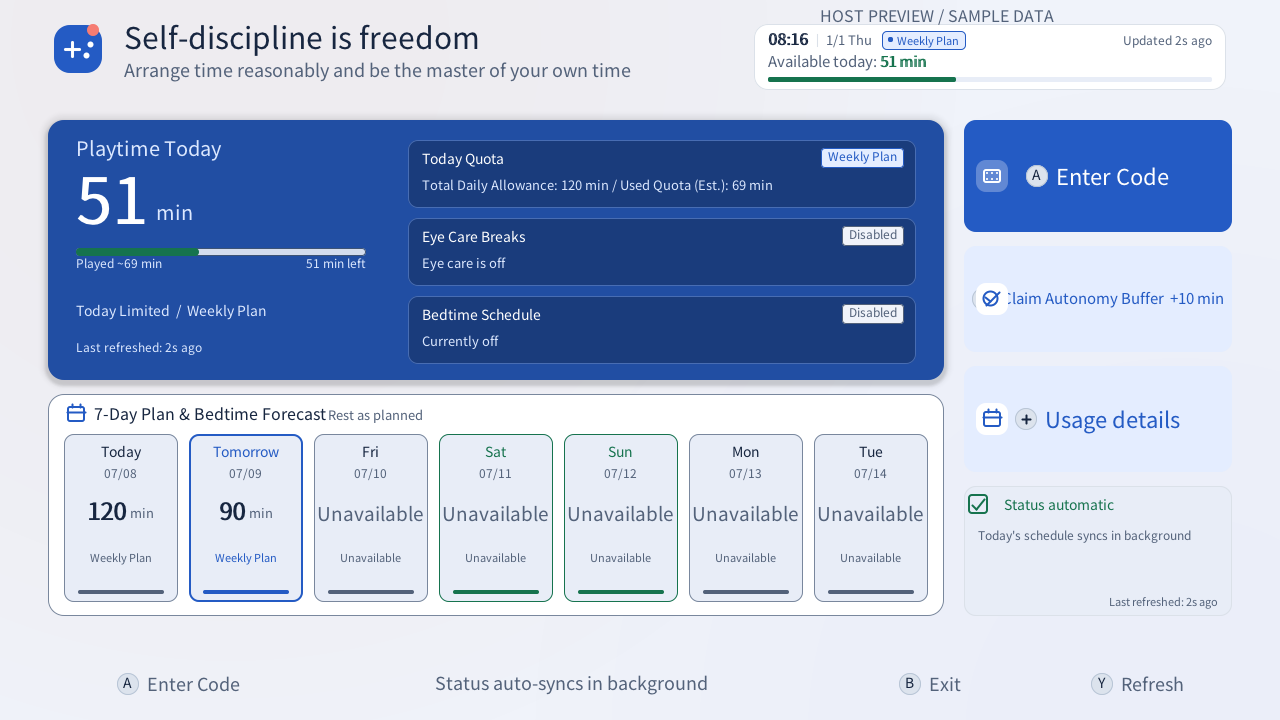
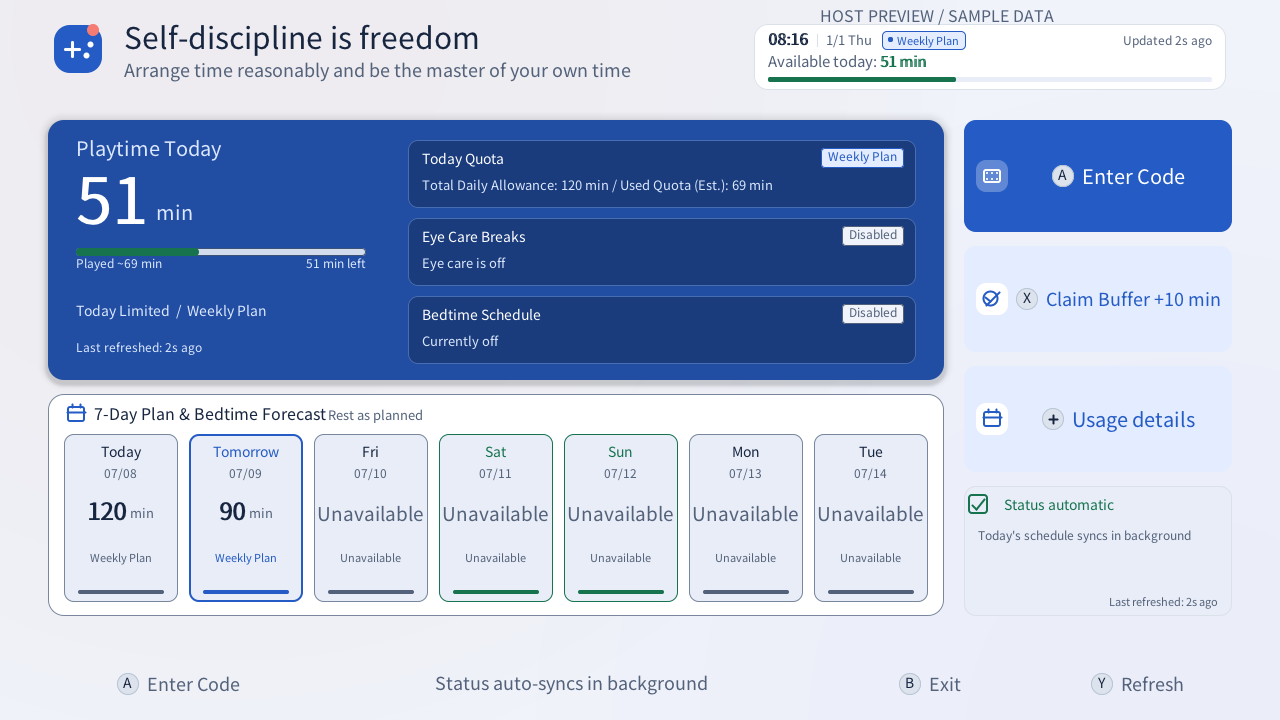
fix(ui): 修复孩子区缓冲文本溢出并优化引导向导视觉交互
- 精简孩子主页自主缓冲文案并限制操作按钮排版边界，彻底消除图标重叠与右侧溢出
- 为引导向导底栏操作与密码修改按钮补齐 Switch 圆形按键符号（A/B/X），提升视觉辨识度
- 在向导第 2 步左侧卡片补充结构化安全规则说明面板，实现双列卡片高度与信息密度平衡
- 在向导第 2 步右侧集成原生风格滑动开关控件与默认参数提示，并明确进阶设置调整路径
- 同步重绘三语向导与孩子主页文档预览图，通过 Python 回归、全量打包及 Eden 测试应用校验

Changed region(s): [[0.7812, 0.2139, 0.9375, 0.275], [0.7812, 0.55, 0.9375, 0.6111], [0.7812, 0.3972, 0.9688, 0.4278]]

diff --git a/companion/nro/ui_render_setup.c b/companion/nro/ui_render_setup.c
@@ -4,9 +4,13 @@ static void setup_button(uint32_t *pixels, uint32_t stride, PtcUiRect rect,
     const char *label, bool selected, bool primary)
 {
     UiRect r = to_uirect(rect);
-    fill_round_rect(pixels, stride, r, 10, primary ? UI_ACCENT : UI_RAISED);
-    draw_rect_outline(pixels, stride, r, 10, selected ? 2 : 1, selected ? UI_ACCENT : UI_BORDER);
-    draw_text_center(pixels, stride, r, label, 18, primary ? UI_ON_ACCENT : UI_INK);
+    uint32_t fill = primary ? UI_ACCENT : (selected ? UI_ACCENT_SOFT : UI_SURFACE);
+    uint32_t border = selected ? UI_ACCENT : (primary ? UI_ACCENT : UI_BORDER);
+    uint32_t text_color = primary ? UI_ON_ACCENT : (selected ? UI_ACCENT : UI_INK);
+    fill_round_rect(pixels, stride, r, 10, fill);
+    draw_rect_outline(pixels, stride, r, 10, selected ? 2 : 1, border);
+    if (selected) draw_focus_ring(pixels, stride, r, 10);
+    draw_button_label(pixels, stride, r, label, 18, text_color);
 }
 
 void draw_setup(uint32_t *pixels, uint32_t stride, const PtcUiModel *model)
@@ -35,10 +39,12 @@ void draw_setup(uint32_t *pixels, uint32_t stride, const PtcUiModel *model)
         for (int i = 0; i < 4; ++i) {
             PtcUiRect r = ptc_ui_setup_language_rect(i);
             bool chosen = model->language_preference == (PtcUiLanguagePreference)i;
-            fill_round_rect(pixels, stride, to_uirect(r), 10, chosen ? UI_ACCENT_SOFT : UI_SURFACE);
-            draw_rect_outline(pixels, stride, to_uirect(r), 10, chosen ? 2 : 1, chosen ? UI_ACCENT : UI_BORDER);
-            if (chosen && model->setup_focus == 1) draw_focus_ring(pixels, stride, to_uirect(r), 10);
-            draw_text_center(pixels, stride, to_uirect(r), i == 0 ? ptc_ui_text(PTC_UI_T_SETUP_LANGUAGE_SYSTEM) :
+            bool focused = (model->setup_focus == 1) && chosen;
+            UiRect ur = to_uirect(r);
+            fill_round_rect(pixels, stride, ur, 10, chosen ? UI_ACCENT_SOFT : UI_SURFACE);
+            draw_rect_outline(pixels, stride, ur, 10, (focused || chosen) ? 2 : 1, chosen ? UI_ACCENT : UI_BORDER);
+            if (focused) draw_focus_ring(pixels, stride, ur, 10);
+            draw_text_center(pixels, stride, ur, i == 0 ? ptc_ui_text(PTC_UI_T_SETUP_LANGUAGE_SYSTEM) :
                 i == 1 ? ptc_ui_text(PTC_UI_T_SETUP_LANGUAGE_HANS) :
                 i == 2 ? ptc_ui_text(PTC_UI_T_SETUP_LANGUAGE_HANT) : "English", 16, chosen ? UI_ACCENT : UI_INK);
         }
@@ -97,10 +103,10 @@ void draw_setup(uint32_t *pixels, uint32_t stride, const PtcUiModel *model)
         fill_round_rect(pixels, stride, sec_card, 12, UI_RAISED);
         draw_rect_outline(pixels, stride, sec_card, 12, 1, UI_BORDER);
         draw_text(pixels, stride, 94, 212, ptc_ui_text(PTC_UI_T_SETUP_CARD_SECURITY), 20, UI_INK);
-        draw_wrapped_text(pixels, stride, 94, 240, ptc_ui_text(PTC_UI_T_SETUP_PIN_DESC), 14, 510, 20, 2, UI_MUTED);
+        draw_wrapped_text(pixels, stride, 94, 238, ptc_ui_text(PTC_UI_T_SETUP_PIN_DESC), 14, 510, 20, 2, UI_MUTED);
 
         /* Status badge */
-        UiRect pin_badge = {94, 286, 510, 36};
+        UiRect pin_badge = {94, 268, 510, 36};
         bool pin_ok = model->setup_pin_ready;
         fill_round_rect(pixels, stride, pin_badge, 8, pin_ok ? UI_SUCCESS_SOFT : UI_WARNING_SOFT);
         draw_rect_outline(pixels, stride, pin_badge, 8, 1, pin_ok ? UI_SUCCESS : UI_WARNING);
@@ -108,11 +114,26 @@ void draw_setup(uint32_t *pixels, uint32_t stride, const PtcUiModel *model)
 
         /* PIN modification button */
         setup_button(pixels, stride, ptc_ui_setup_pin_rect(), ptc_ui_text(PTC_UI_T_X_CLICK_CHANGE_PIN),
-            model->setup_focus == 1, model->setup_focus == 1);
+            model->setup_focus == 1, false);
 
-        /* Hint note */
-        draw_wrapped_text(pixels, stride, 94, 400, ptc_ui_text(PTC_UI_T_ENTER_A_NUMBER_FROM_1_TO_64), 14, 510, 22, 2, UI_MUTED);
-        draw_wrapped_text(pixels, stride, 94, 448, ptc_ui_text(PTC_UI_T_ENTER_NEW_1_TO_64_DIGIT_NUMBER), 13, 510, 20, 2, UI_MUTED);
+        /* Security Guide Panel - perfectly balances the card height */
+        UiRect sec_guide = {94, 372, 510, 230};
+        fill_round_rect(pixels, stride, sec_guide, 10, UI_SURFACE);
+        draw_rect_outline(pixels, stride, sec_guide, 10, 1, UI_BORDER);
+        draw_text(pixels, stride, 108, 396, ptc_ui_text(PTC_UI_T_SETUP_SEC_GUIDE_TITLE), 15, UI_INK);
+        fill_round_rect(pixels, stride, (UiRect){108, 407, 482, 1}, 0, UI_BORDER);
+
+        draw_text(pixels, stride, 108, 432, ptc_ui_text(PTC_UI_T_SETUP_SEC_GUIDE_1_TITLE), 13, UI_ACCENT);
+        draw_text(pixels, stride, 188, 432, ptc_ui_text(PTC_UI_T_SETUP_SEC_GUIDE_1_DESC), 13, UI_MUTED);
+
+        draw_text(pixels, stride, 108, 474, ptc_ui_text(PTC_UI_T_SETUP_SEC_GUIDE_2_TITLE), 13, UI_ACCENT);
+        draw_text(pixels, stride, 188, 474, ptc_ui_text(PTC_UI_T_SETUP_SEC_GUIDE_2_DESC), 13, UI_MUTED);
+
+        draw_text(pixels, stride, 108, 516, ptc_ui_text(PTC_UI_T_SETUP_SEC_GUIDE_3_TITLE), 13, UI_ACCENT);
+        draw_text(pixels, stride, 188, 516, ptc_ui_text(PTC_UI_T_SETUP_SEC_GUIDE_3_DESC), 13, UI_MUTED);
+
+        draw_text(pixels, stride, 108, 558, ptc_ui_text(PTC_UI_T_SETUP_SEC_GUIDE_4_TITLE), 13, UI_ACCENT);
+        draw_text(pixels, stride, 188, 558, ptc_ui_text(PTC_UI_T_SETUP_SEC_GUIDE_4_DESC), 13, UI_MUTED);
 
         /* Right Card: Preferences & Feature Toggles */
         UiRect pref_card = {656, 185, 550, 432};
@@ -124,33 +145,63 @@ void draw_setup(uint32_t *pixels, uint32_t stride, const PtcUiModel *model)
         draw_text(pixels, stride, 676, 238, ptc_ui_text(PTC_UI_T_SETUP_THEME_LABEL), 14, UI_MUTED);
         for (int i = 0; i < 3; ++i) {
             bool selected = model->setup_theme_index == i;
-            setup_button(pixels, stride, ptc_ui_setup_theme_rect(i), ptc_ui_theme_preference_label((PtcUiThemePreference)i),
-                selected, false);
-            if (selected && model->setup_focus == 2)
-                draw_focus_ring(pixels, stride, to_uirect(ptc_ui_setup_theme_rect(i)), 10);
+            bool focused = model->setup_focus == 2 && selected;
+            PtcUiRect tr = ptc_ui_setup_theme_rect(i);
+            UiRect utr = to_uirect(tr);
+            fill_round_rect(pixels, stride, utr, 10, selected ? UI_ACCENT_SOFT : UI_SURFACE);
+            draw_rect_outline(pixels, stride, utr, 10, (focused || selected) ? 2 : 1, selected ? UI_ACCENT : UI_BORDER);
+            if (focused) draw_focus_ring(pixels, stride, utr, 10);
+            draw_text_center(pixels, stride, utr, ptc_ui_theme_preference_label((PtcUiThemePreference)i),
+                16, selected ? UI_ACCENT : UI_INK);
         }
 
         /* 2. Shortcut */
         draw_text(pixels, stride, 676, 298, ptc_ui_text(PTC_UI_T_SETUP_SHORTCUT_LABEL), 14, UI_MUTED);
-        snprintf(text, sizeof(text), "%s: %s  [%s]", ptc_ui_text(PTC_UI_T_SETUP_SHORTCUT_LABEL),
+        UiRect s_rect = to_uirect(ptc_ui_setup_shortcut_rect());
+        bool s_focused = model->setup_focus == 3;
+        fill_round_rect(pixels, stride, s_rect, 10, s_focused ? UI_ACCENT_SOFT : UI_SURFACE);
+        draw_rect_outline(pixels, stride, s_rect, 10, s_focused ? 2 : 1, s_focused ? UI_ACCENT : UI_BORDER);
+        if (s_focused) draw_focus_ring(pixels, stride, s_rect, 10);
+        draw_text(pixels, stride, s_rect.x + 16, s_rect.y + 25, ptc_ui_text(PTC_UI_T_SETUP_SHORTCUT_LABEL), 16, UI_INK);
+        char sc_buf[192];
+        snprintf(sc_buf, sizeof(sc_buf), "%s  [%s]",
             model->custom_shortcut_label[0] ? model->custom_shortcut_label : "(-)",
             ptc_ui_text(PTC_UI_T_SETUP_SHORTCUT_CHANGE));
-        setup_button(pixels, stride, ptc_ui_setup_shortcut_rect(), text, model->setup_focus == 3, false);
+        int sc_w = measure_text(sc_buf, 14);
+        draw_text(pixels, stride, s_rect.x + s_rect.width - sc_w - 16, s_rect.y + 25, sc_buf, 14, s_focused ? UI_ACCENT : UI_MUTED);
 
-        /* 3. Eye Care Toggle */
+        /* 3. Eye Care Toggle with visible Switch and clear setting indication */
         draw_text(pixels, stride, 676, 374, ptc_ui_text(PTC_UI_T_SETUP_EYE_CARE_LABEL), 14, UI_MUTED);
         bool eye_on = model->setup_eye_care_enabled || model->draft_eye_care_policy.enabled;
-        setup_button(pixels, stride, ptc_ui_setup_eye_care_rect(),
-            ptc_ui_text(eye_on ? PTC_UI_T_SETUP_EYE_CARE_ON : PTC_UI_T_SETUP_EYE_CARE_OFF),
-            model->setup_focus == 4, eye_on);
-        draw_text(pixels, stride, 676, 440, ptc_ui_text(PTC_UI_T_SETUP_EYE_CARE_HINT), 13, UI_MUTED);
+        UiRect eye_rect = to_uirect(ptc_ui_setup_eye_care_rect());
+        bool eye_focused = model->setup_focus == 4;
+        fill_round_rect(pixels, stride, eye_rect, 10, eye_focused ? UI_ACCENT_SOFT : UI_SURFACE);
+        draw_rect_outline(pixels, stride, eye_rect, 10, (eye_focused || eye_on) ? 2 : 1, eye_focused ? UI_ACCENT : (eye_on ? UI_ACCENT : UI_BORDER));
+        if (eye_focused) draw_focus_ring(pixels, stride, eye_rect, 10);
+        draw_text(pixels, stride, eye_rect.x + 16, eye_rect.y + 25, ptc_ui_text(PTC_UI_T_SETUP_EYE_CARE_LABEL), 16, UI_INK);
+        draw_text(pixels, stride, eye_rect.x + 90, eye_rect.y + 25, ptc_ui_text(PTC_UI_T_SETUP_EYE_CARE_DEFAULT_PARAMS), 13, UI_MUTED);
+        UiRect eye_sw = {eye_rect.x + eye_rect.width - 66, eye_rect.y + (eye_rect.height - 24) / 2, 50, 24};
+        draw_toggle_switch(pixels, stride, eye_sw, eye_on, false, false, NULL, NULL);
+        const char *eye_st = eye_on ? ptc_ui_text(PTC_UI_T_ENABLED_2) : ptc_ui_text(PTC_UI_T_DISABLED);
+        int eye_st_w = measure_text(eye_st, 14);
+        draw_text(pixels, stride, eye_sw.x - eye_st_w - 10, eye_rect.y + 25, eye_st, 14, eye_on ? UI_SUCCESS : UI_MUTED);
+        draw_text(pixels, stride, 676, 442, ptc_ui_text(PTC_UI_T_SETUP_EYE_CARE_HINT), 13, UI_MUTED);
 
-        /* 4. Bedtime Toggle */
+        /* 4. Bedtime Toggle with visible Switch and clear setting indication */
         draw_text(pixels, stride, 676, 468, ptc_ui_text(PTC_UI_T_SETUP_BEDTIME_LABEL), 14, UI_MUTED);
         bool bed_on = model->setup_bedtime_enabled || model->draft_bedtime_policy.enabled;
-        setup_button(pixels, stride, ptc_ui_setup_bedtime_rect(),
-            ptc_ui_text(bed_on ? PTC_UI_T_SETUP_BEDTIME_ON : PTC_UI_T_SETUP_BEDTIME_OFF),
-            model->setup_focus == 5, bed_on);
+        UiRect bed_rect = to_uirect(ptc_ui_setup_bedtime_rect());
+        bool bed_focused = model->setup_focus == 5;
+        fill_round_rect(pixels, stride, bed_rect, 10, bed_focused ? UI_ACCENT_SOFT : UI_SURFACE);
+        draw_rect_outline(pixels, stride, bed_rect, 10, (bed_focused || bed_on) ? 2 : 1, bed_focused ? UI_ACCENT : (bed_on ? UI_ACCENT : UI_BORDER));
+        if (bed_focused) draw_focus_ring(pixels, stride, bed_rect, 10);
+        draw_text(pixels, stride, bed_rect.x + 16, bed_rect.y + 25, ptc_ui_text(PTC_UI_T_SETUP_BEDTIME_LABEL), 16, UI_INK);
+        draw_text(pixels, stride, bed_rect.x + 90, bed_rect.y + 25, ptc_ui_text(PTC_UI_T_SETUP_BEDTIME_DEFAULT_PARAMS), 13, UI_MUTED);
+        UiRect bed_sw = {bed_rect.x + bed_rect.width - 66, bed_rect.y + (bed_rect.height - 24) / 2, 50, 24};
+        draw_toggle_switch(pixels, stride, bed_sw, bed_on, false, false, NULL, NULL);
+        const char *bed_st = bed_on ? ptc_ui_text(PTC_UI_T_ENABLED_2) : ptc_ui_text(PTC_UI_T_DISABLED);
+        int bed_st_w = measure_text(bed_st, 14);
+        draw_text(pixels, stride, bed_sw.x - bed_st_w - 10, bed_rect.y + 25, bed_st, 14, bed_on ? UI_SUCCESS : UI_MUTED);
         draw_text(pixels, stride, 676, 520, ptc_ui_text(PTC_UI_T_SETUP_BEDTIME_HINT), 13, UI_MUTED);
     } else {
         /* Card 1: Configuration Summary Board */
@@ -215,12 +266,16 @@ void draw_setup(uint32_t *pixels, uint32_t stride, const PtcUiModel *model)
             draw_wrapped_text(pixels, stride, 94, 552, ptc_ui_text(model->setup_activation_pending
                 ? PTC_UI_T_SETUP_ACTIVATING : PTC_UI_T_SETUP_CONTROLS_INACTIVE), 14, 1092, 20, 1, UI_MUTED);
         }
-        setup_button(pixels, stride, ptc_ui_setup_skip_rect(), ptc_ui_text(PTC_UI_T_SETUP_SKIP), model->setup_focus == 1, false);
+        char skip_label[96];
+        snprintf(skip_label, sizeof(skip_label), "X  %s", ptc_ui_text(PTC_UI_T_SETUP_SKIP));
+        setup_button(pixels, stride, ptc_ui_setup_skip_rect(), skip_label, model->setup_focus == 1, false);
     }
     if (model->message[0]) draw_wrapped_text(pixels, stride, 94, 589, model->message, 16, 1092, 21, 2, UI_WARNING);
     setup_button(pixels, stride, ptc_ui_setup_back_rect(), ptc_ui_text(PTC_UI_T_B_PREVIOUS_STEP), false, false);
-    setup_button(pixels, stride, ptc_ui_setup_primary_rect(), ptc_ui_text(step == PTC_UI_SETUP_PREPARE
-        ? PTC_UI_T_SETUP_NEXT_PREPARE : step == PTC_UI_SETUP_PARENT ? PTC_UI_T_SETUP_NEXT : PTC_UI_T_SETUP_ACTIVATE),
+    char primary_label[96];
+    snprintf(primary_label, sizeof(primary_label), "A  %s", ptc_ui_text(step == PTC_UI_SETUP_PREPARE
+        ? PTC_UI_T_SETUP_NEXT_PREPARE : step == PTC_UI_SETUP_PARENT ? PTC_UI_T_SETUP_NEXT : PTC_UI_T_SETUP_ACTIVATE));
+    setup_button(pixels, stride, ptc_ui_setup_primary_rect(), primary_label,
         model->setup_focus == 0, true);
 }
 

diff --git a/companion/nro/ui_render_child.c b/companion/nro/ui_render_child.c
@@ -387,6 +387,22 @@ static void draw_child_action_icon(uint32_t *pixels, uint32_t stride, PtcUiRect 
     }
 }
 
+static void draw_child_action_button(uint32_t *pixels, uint32_t stride, PtcUiRect target,
+                                    const char *label, int kind, bool primary,
+                                    bool selected, bool disabled)
+{
+    UiRect box = to_uirect(target);
+    uint32_t fill = disabled ? UI_RAISED : (primary ? UI_ACCENT : UI_ACCENT_SOFT);
+    fill_round_rect(pixels, stride, box, 12, fill);
+    if (selected) draw_focus_ring(pixels, stride, box, 12);
+    draw_child_action_icon(pixels, stride, target, kind, primary, disabled);
+
+    /* Text content area to the right of the action icon */
+    UiRect label_box = {box.x + 48, box.y, box.width - 54, box.height};
+    draw_button_label(pixels, stride, label_box, label, target.h <= 48 ? 18 : 20,
+                      disabled ? UI_DISABLED : (primary ? UI_ON_ACCENT : UI_ACCENT));
+}
+
 static void draw_child_status_card(uint32_t *pixels, uint32_t stride, const PtcUiModel *model)
 {
     UiRect card = {964, 486, 268, 130};
@@ -432,11 +448,10 @@ void draw_child(uint32_t *pixels, uint32_t stride, const PtcUiModel *model)
     draw_child_task_summary(pixels, stride, model);
 
     /* 右侧动作栏 (4 个紧凑功能项目) */
-    home_button(pixels, stride, ptc_ui_child_submit_rect(),
+    draw_child_action_button(pixels, stride, ptc_ui_child_submit_rect(),
         model->disable_flag_present ? ptc_ui_text(PTC_UI_T_REDEMPTION_IS_CURRENTLY_UNAVAILABLE) :
         (code_unavailable ? ptc_ui_text(PTC_UI_T_NO_TIME_LIMIT_TODAY_GRANT_CODES_ARE) : ptc_ui_text(PTC_UI_T_A_ENTER_CODE)),
-        true, false, disabled || code_unavailable);
-    draw_child_action_icon(pixels, stride, ptc_ui_child_submit_rect(), 0, true, disabled || code_unavailable);
+        0, true, false, disabled || code_unavailable);
 
     if (model->daily_buffer_available) {
         snprintf(buffer, sizeof(buffer), ptc_ui_text(PTC_UI_T_X_CLAIM_SELF_BUFFER_U_MIN), (unsigned int)model->daily_buffer_minutes);
@@ -445,14 +460,12 @@ void draw_child(uint32_t *pixels, uint32_t stride, const PtcUiModel *model)
             (model->daily_buffer_minutes == 0 ? ptc_ui_text(PTC_UI_T_AUTONOMOUS_BUFFERING_IS_NOT_ENABLED_TODAY) : ptc_ui_text(PTC_UI_T_AUTONOMOUS_BUFFERING_CAN_ONLY_BE_COLLECTED_ON)));
     }
 
-    home_button(pixels, stride, ptc_ui_child_buffer_rect(), buffer, false, false,
+    draw_child_action_button(pixels, stride, ptc_ui_child_buffer_rect(), buffer,
+        model->daily_buffer_claimed ? 3 : 1, false, false,
         disabled || !model->daily_buffer_available);
-    draw_child_action_icon(pixels, stride, ptc_ui_child_buffer_rect(),
-                           model->daily_buffer_claimed ? 3 : 1, false,
-                           disabled || !model->daily_buffer_available);
 
-    home_button(pixels, stride, ptc_ui_home_details_rect(false), ptc_ui_text(PTC_UI_T_USAGE_DETAILS_2), false, false, model->waiting);
-    draw_child_action_icon(pixels, stride, ptc_ui_home_details_rect(false), 2, false, model->waiting);
+    draw_child_action_button(pixels, stride, ptc_ui_home_details_rect(false),
+        ptc_ui_text(PTC_UI_T_USAGE_DETAILS_2), 2, false, false, model->waiting);
 
     draw_child_status_card(pixels, stride, model);
 
